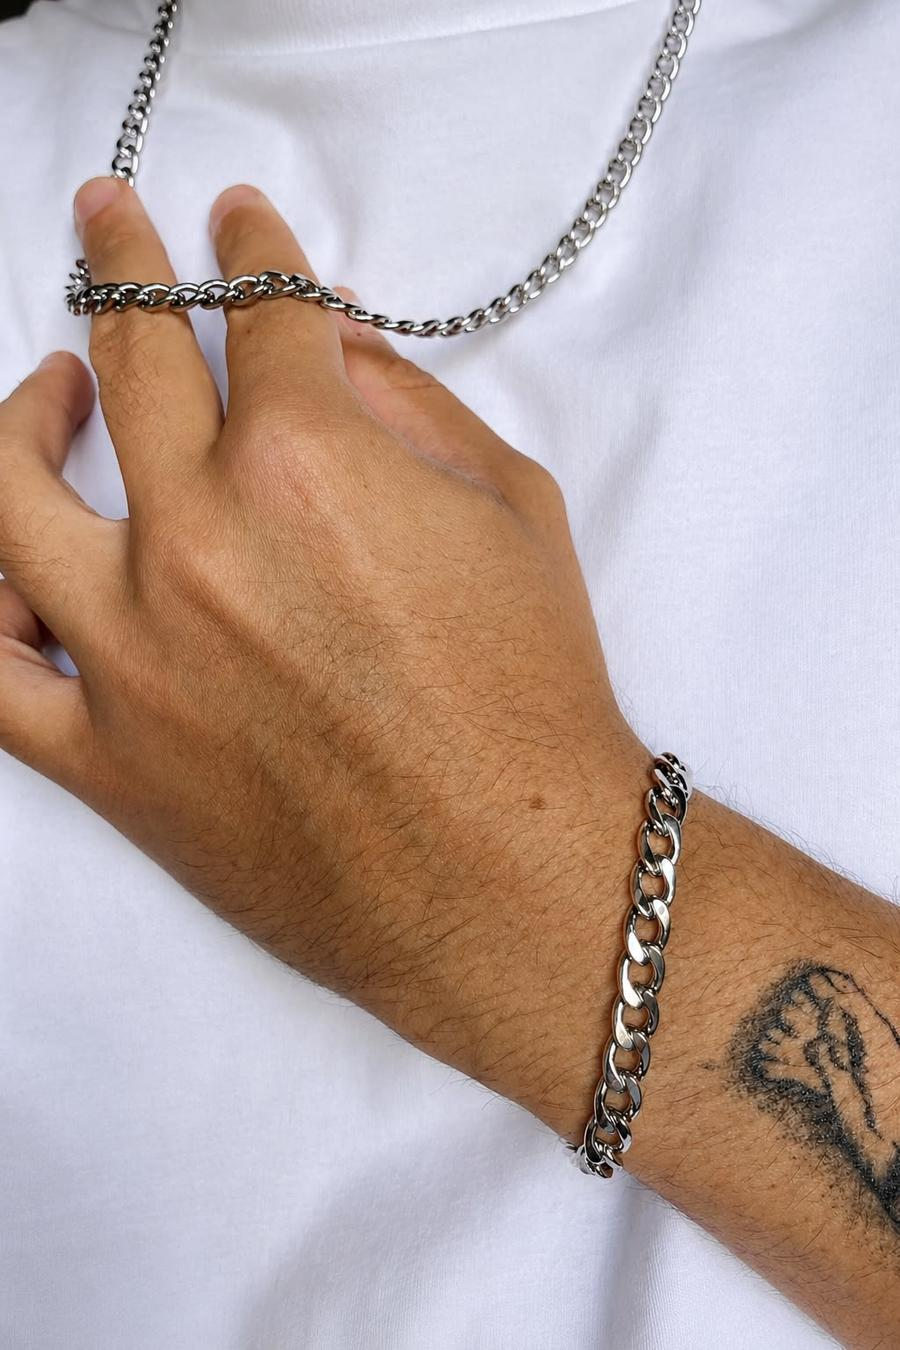
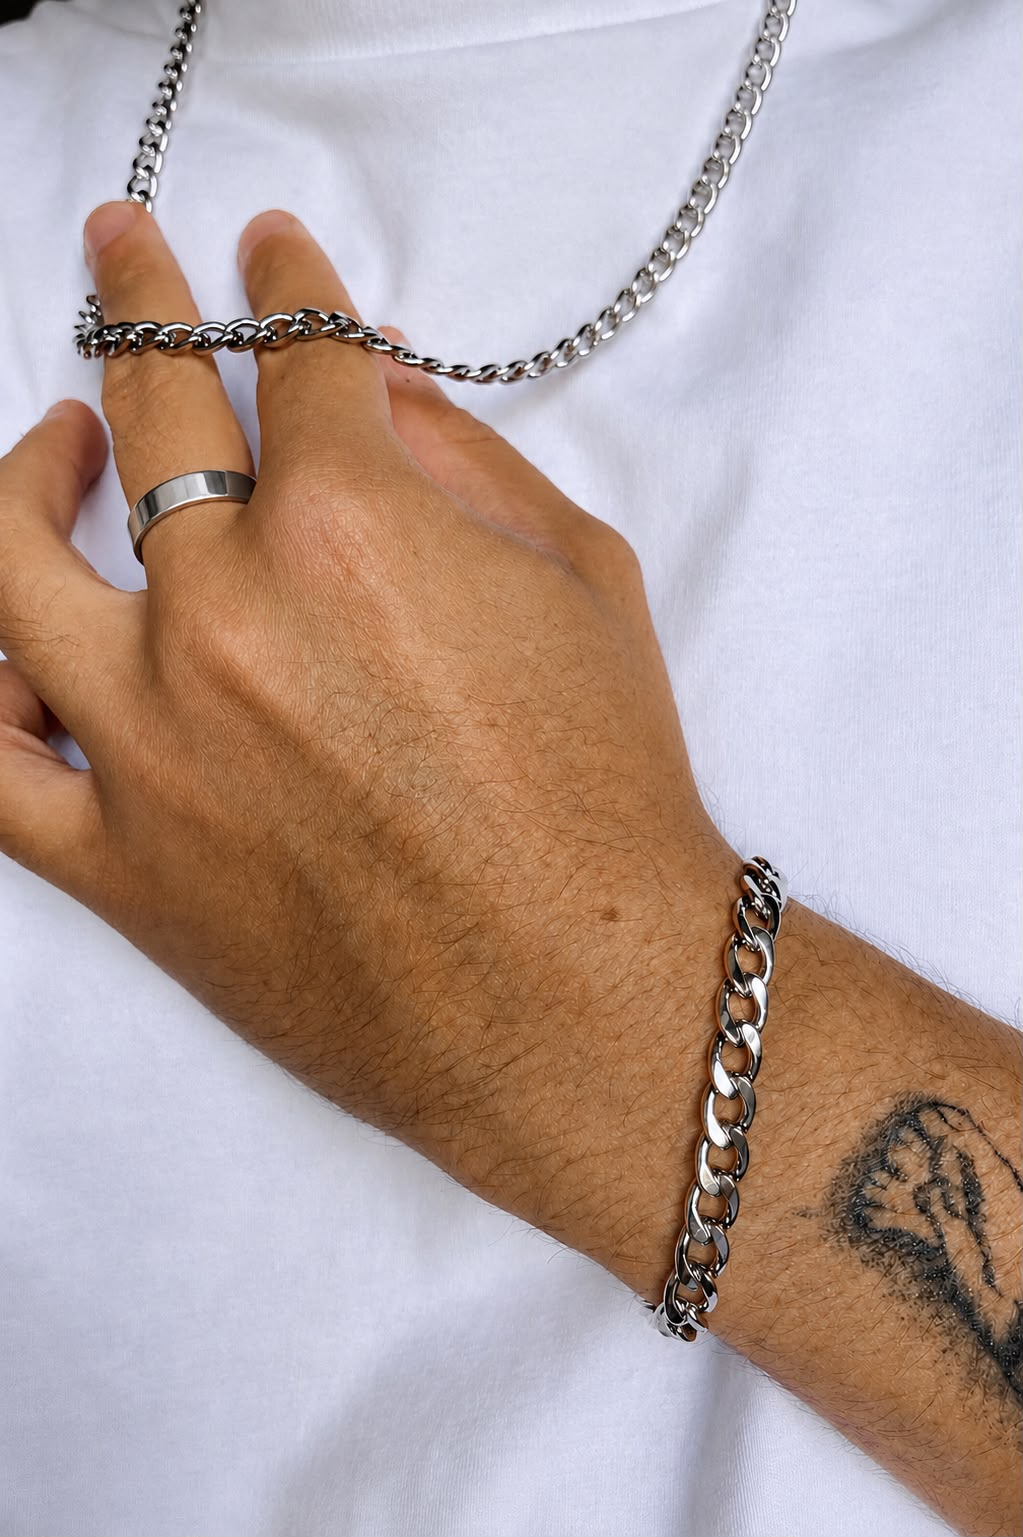
Completar fotos y medidas de Combo Cuba Silver
El combo (pulsera + cadena + anillo) pasa de 1 sola foto a la galería
completa: la foto de las 3 piezas puestas, más una foto de detalle
por pieza. Se agregan también los talles/medidas disponibles a los
detalles del combo y de la pulsera suelta, que antes solo decía
"varias medidas disponibles".

diff --git a/assets/js/products.js b/assets/js/products.js
@@ -494,7 +494,7 @@ const PRODUCTOS = {
       detalles: [
         "Material: acero quirúrgico",
         "Diseño: cadena cubana (curb chain)",
-        "Varias medidas disponibles",
+        "Medidas disponibles: 18 a 22 cm",
       ],
     },
     {
@@ -781,11 +781,16 @@ const PRODUCTOS = {
       precio: 30000,
       desc: "Combo de 3 piezas color plateado, cadena cubana (curb chain): pulsera, cadena de 50 cm y anillo plano. Acero quirúrgico.",
       img: "assets/images/combo-cuba-silver.jpg",
+      img2: "assets/images/combo-cuba-silver-modelo.jpg",
+      img3: "assets/images/combo-cuba-silver-modelo2.jpg",
+      img4: "assets/images/combo-cuba-silver-modelo3.jpg",
       etiqueta: "Nuevo",
       color: "navy",
       detalles: [
         "Material: acero quirúrgico",
         "Incluye: pulsera + cadena (50 cm) + anillo",
+        "Talles de anillo disponibles: 18 a 22",
+        "Medidas de pulsera disponibles: 18 a 22 cm",
         "Cada pieza también se vende por separado a $12.000",
       ],
     },

diff --git a/index.html b/index.html
@@ -141,7 +141,7 @@
 <!-- Modal de producto: lo arma site.js -->
 <div id="product-modal" class="product-modal" hidden></div>
 
-<script src="assets/js/products.js?v=58"></script>
+<script src="assets/js/products.js?v=59"></script>
 <script src="assets/js/shipping.js?v=5"></script>
 <script src="assets/js/site.js?v=25"></script>
 </body>
